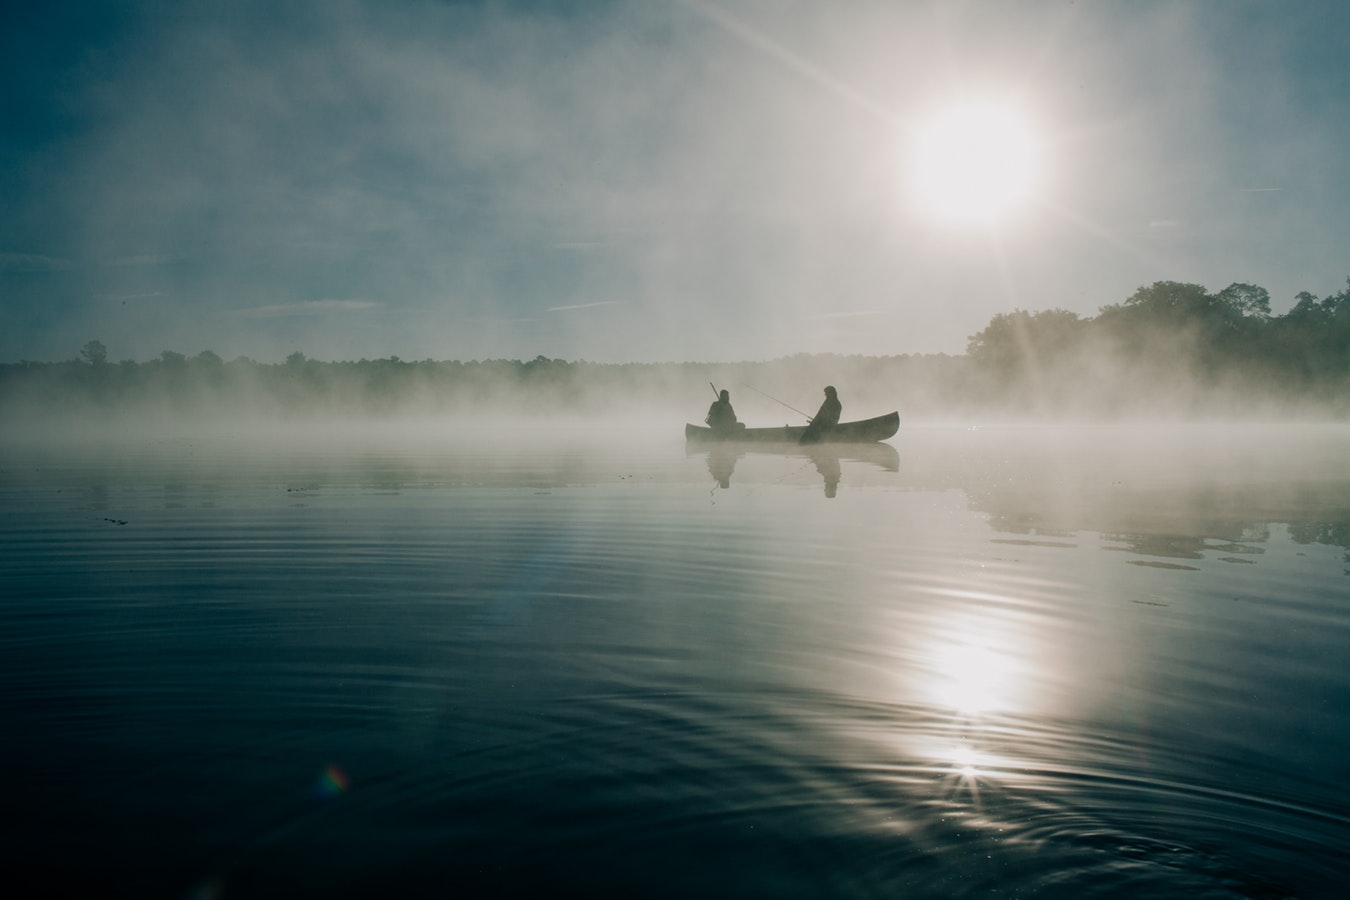
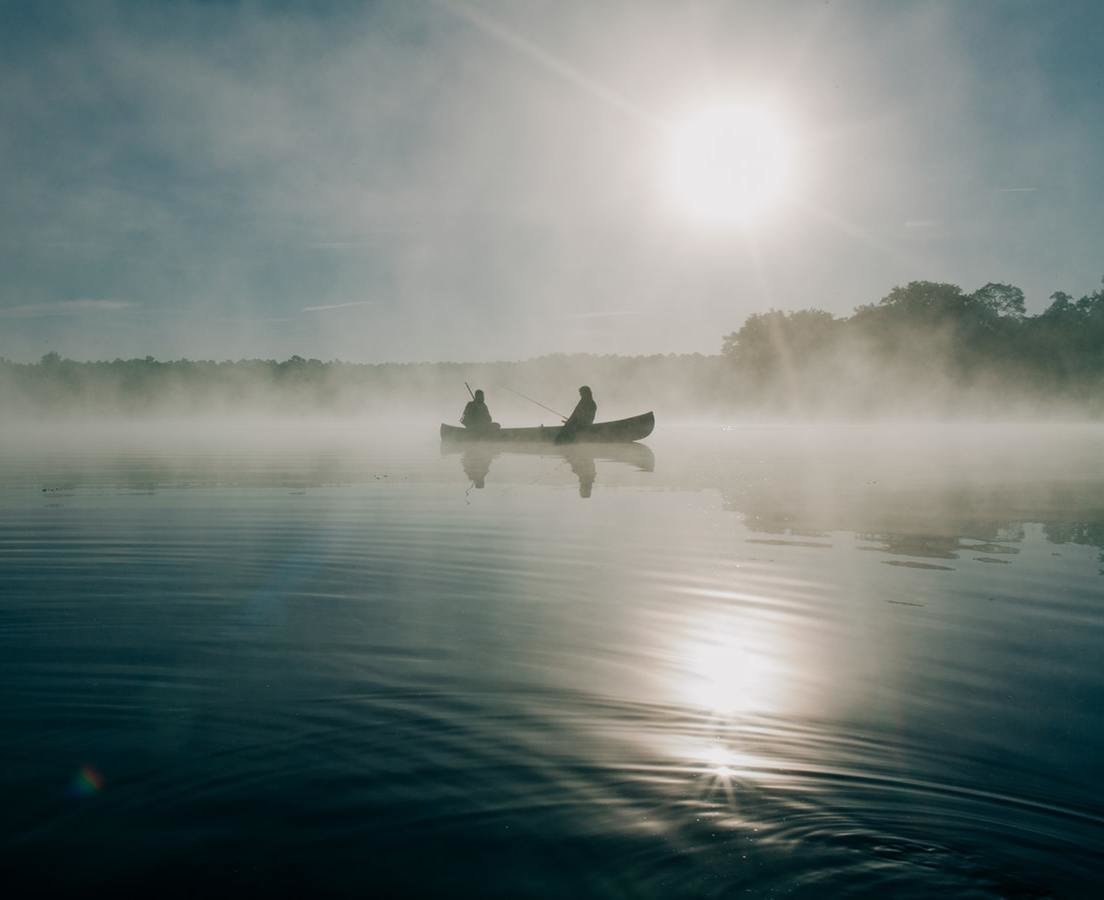
Added in bootstrap carousel fixed more mobile responsiveness issues adjusted images for better scaling added title to site finally.

diff --git a/index.html b/index.html
@@ -2,6 +2,7 @@
 <html lang="en">
 
 <head>
+    <title>Whitehawk Industries!</title>
     <meta charset="utf-8">
     <meta http-equiv="X-UA-Compatible" content="IE=edge">
     <meta name="viewport" content="width=device-width, initial-scale=1">
@@ -91,6 +92,9 @@
                 <strong>
                     <li>jQuery</li>
                 </strong>
+                <strong>
+                    <li>JavaScript</li>
+                </strong>
             </ul>
 
 
@@ -98,25 +102,62 @@
 
 
     </div>
-    <div class="third-page img-responsive" class="portfolio-images" id="third-image">
-        <section>
-            <div class="social">
-                <a href="https://twitter.com/wbray93">
-                    <i class="fa fa-twitter animated animation-element"></i>
+    <div class="third-page" id="third-image">
+        <div class="big-Juju">
+            <div id="carousel-example-generic" class="carousel slide portfolio-Projects" data-ride="carousel">
+                <!-- Indicators  -->
+                <ol class="carousel-indicators">
+                    <li data-target="#carousel-example-generic" data-slide-to="0" class="active"></li>
+                    <li data-target="#carousel-example-generic" data-slide-to="1"></li>
+                    <li data-target="#carousel-example-generic" data-slide-to="2"></li>
+                </ol>
+
+                <!-- Wrapper for slides  -->
+                <div class="carousel-inner" role="listbox">
+                    <div class="item active">
+                        <a href="https://wbray93.github.io/portfolio/">
+                            <img src="portfoliothumbnail.jpg" alt="PortfolioPreview">
+                        </a>
+                        <div class="carousel-caption">
+
+                        </div>
+                    </div>
+                    <div class="item">
+                        <img src="https://images.unsplash.com/photo-1491257380826-cb48ad840874?ixlib=rb-0.3.5&ixid=eyJhcHBfaWQiOjEyMDd9&s=236279061ed3f72b839592568e84ec06&auto=format&fit=crop&w=634&q=80"
+                            alt="...">
+                        <div class="carousel-caption">
+
+                        </div>
+                    </div>
+                </div>
+
+                <!-- Controls  -->
+                <a class="left carousel-control" href="#carousel-example-generic" role="button" data-slide="prev">
+                    <span class="glyphicon glyphicon-chevron-left" aria-hidden="true"></span>
+                    <span class="sr-only">Previous</span>
                 </a>
-                <a href="https://github.com/wbray93">
-                    <i class="fa fa-github-square animated animation-element"></i>
+                <a class="right carousel-control" href="#carousel-example-generic" role="button" data-slide="next">
+                    <span class="glyphicon glyphicon-chevron-right" aria-hidden="true"></span>
+                    <span class="sr-only">Next</span>
                 </a>
-                <a href="https://www.linkedin.com/in/william-bray-2b47a2157/?lipi=urn%3Ali%3Apage%3Ad_flagship3_profile_view_base%3BCFEJUUz5RHeh45BGs34NMw%3D%3D"
-                    target="_blank">
-                    <i class="fa fa-linkedin-square animated animation-element"></i>
-                </a>
-                <a href="#back-to-top">
-                    <i class="fa fa-anchor animated animation-element"></i>
-                </a>
-                <!--make back to top more professional -->
             </div>
-        </section>
+        </div>
+        <div class="social">
+            <a href="https://twitter.com/wbray93">
+                <i class="fa fa-twitter animated animation-element"></i>
+            </a>
+            <a href="https://github.com/wbray93">
+                <i class="fa fa-github-square animated animation-element"></i>
+            </a>
+            <a href="https://www.linkedin.com/in/william-bray-2b47a2157/?lipi=urn%3Ali%3Apage%3Ad_flagship3_profile_view_base%3BCFEJUUz5RHeh45BGs34NMw%3D%3D"
+                target="_blank">
+                <i class="fa fa-linkedin-square animated animation-element"></i>
+            </a>
+            <a href="#back-to-top">
+                <i class="fa fa-anchor animated animation-element"></i>
+            </a>
+            <!--make back to top more professional -->
+        </div>
 
     </div>
 

diff --git a/Style.css b/Style.css
@@ -26,12 +26,14 @@ body {
 }
 
 .third-page {
-    color: black;
-    font-size: 3.0em;
+    display: flex;
+    align-items: center;
+    justify-content: flex-end;
+    flex-direction: column;
 }
 
-.portfolio-images {
-    width: 100%;
+.third-page > div{
+    width:100%;
 }
 
 #first-image {
@@ -62,7 +64,6 @@ body {
 
 .social {
     text-align: center;
-    padding-top: 825px;
 }
 
 .self-portrait {
@@ -82,15 +83,24 @@ body {
 
 i::before {
     color: #A53045;
+    font-size: 3.0em;
 }
 
+.navbar-toggle{
+    border-color:black
+}
 
+.icon-bar{
+    background-color:black;
+}
 
+.portfolio-Projects img{
+    margin: auto;
+    max-height: 450px;
+    width: auto;
+}
 
-
-
-
-@media(max-width:767px) {
+@media(max-width:768px) {
     .self-portrait {
         margin-top: 225px;
         width:150px;
